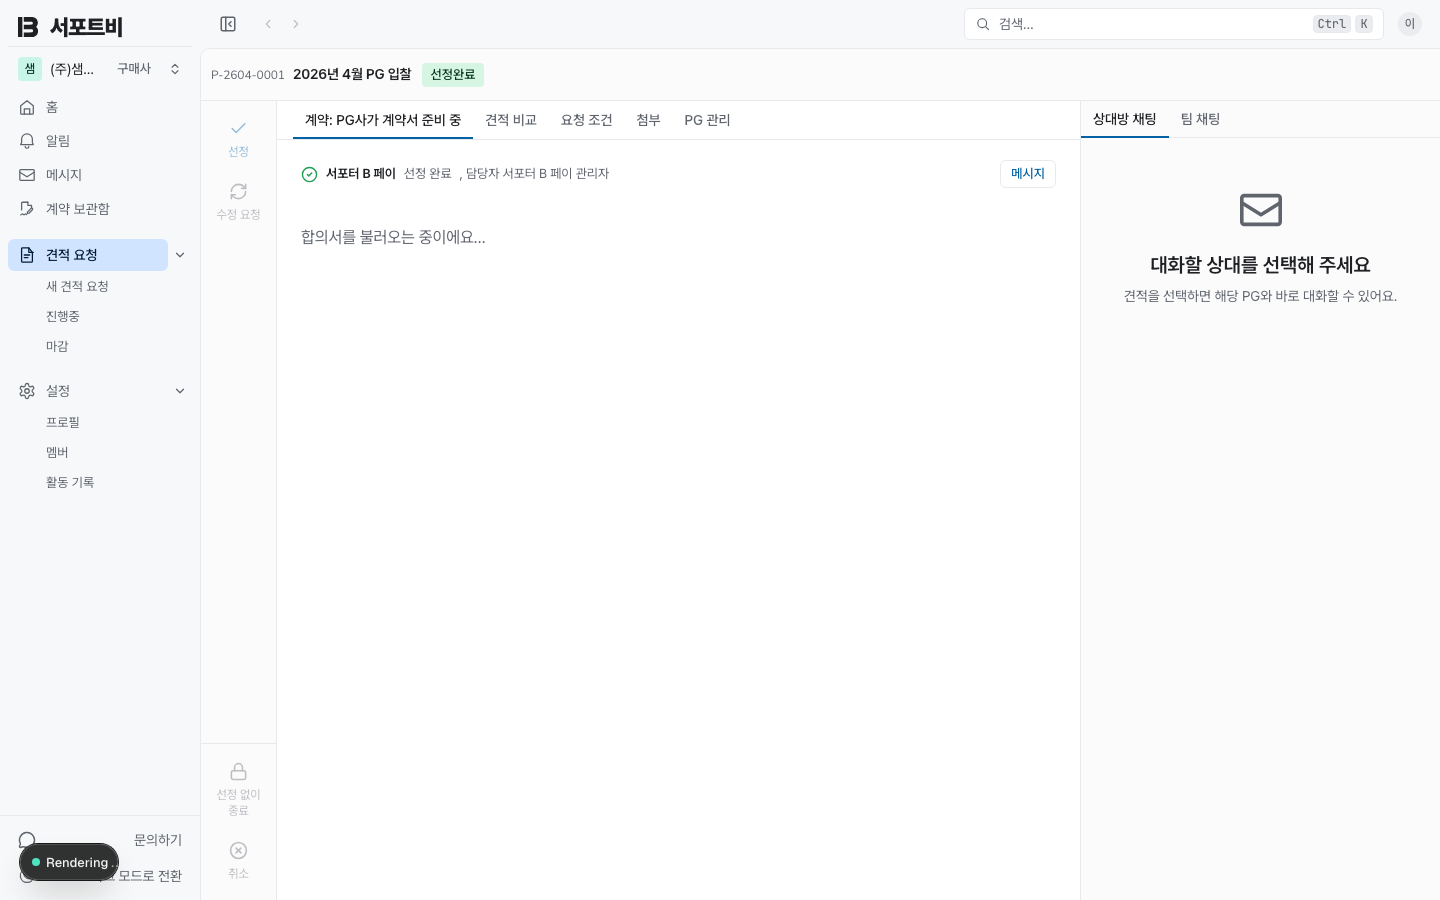
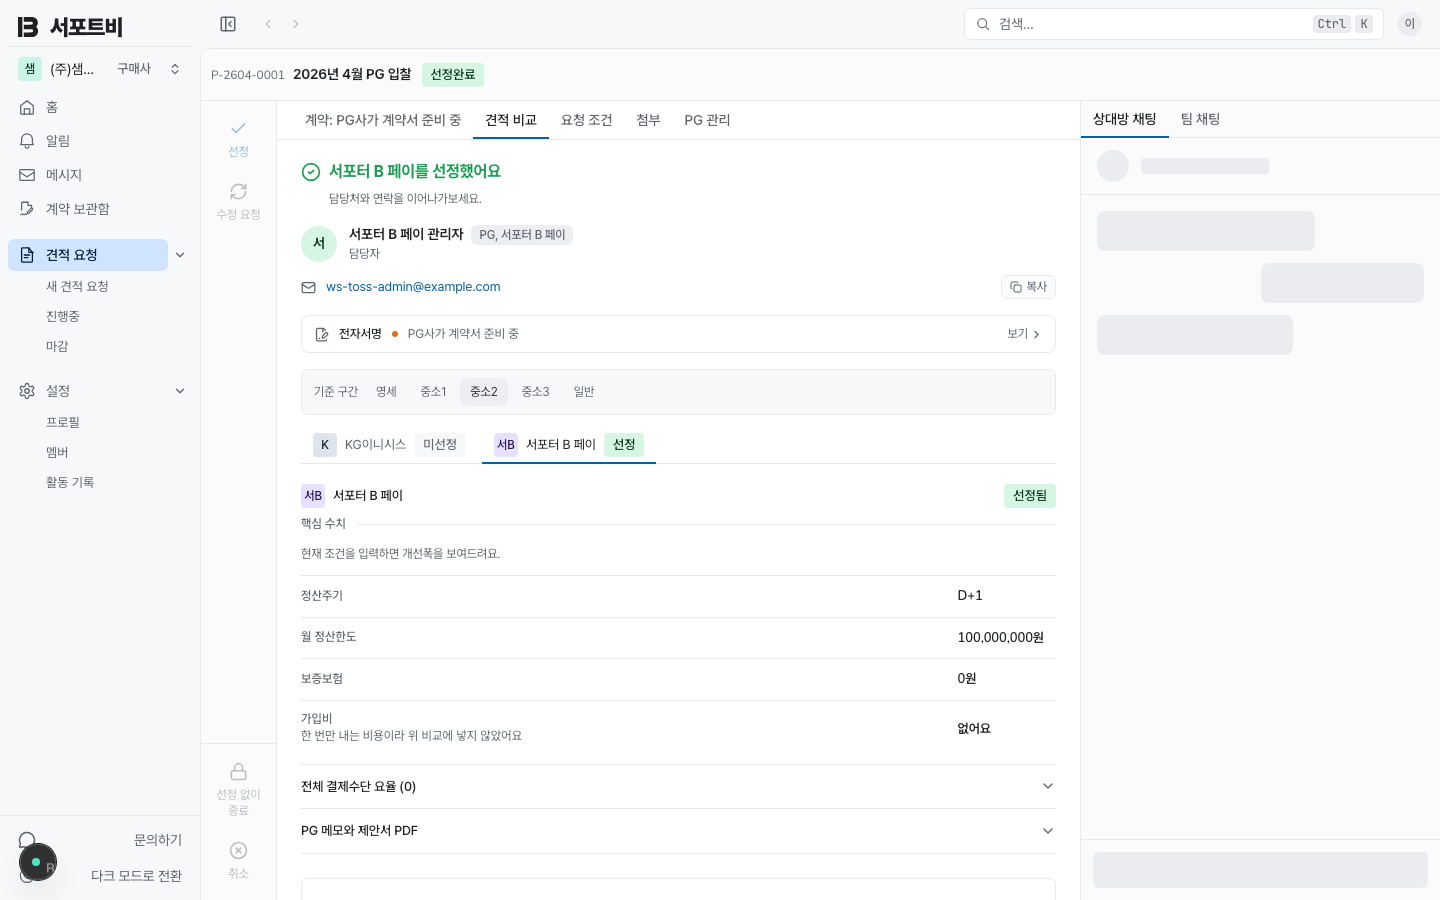
test: capture settled award revisit comparisons

diff --git a/e2e/scenario-c-buyer-award.spec.ts b/e2e/scenario-c-buyer-award.spec.ts
@@ -135,6 +135,8 @@ test.describe.serial('Scenario C — buyer awards a bid', () => {
     await expect(page.getByRole('dialog', { name: '최종 계약 조건 협의를 마쳤어요' })).toHaveCount(0);
 
     if (process.env.AWARD_EVIDENCE_DIR) {
+      await page.getByRole('tab', { name: '견적 비교', exact: true }).click();
+      await expect(page.getByText('가입비', { exact: true }).first()).toBeVisible();
       for (const [name, width, height] of [['desktop', 1440, 900], ['mobile', 390, 844]] as const) {
         await page.setViewportSize({ width, height });
         await page.screenshot({ path: `${process.env.AWARD_EVIDENCE_DIR}/after-revisit-${name}.png` });

diff --git a/docs/evidence/award-result/README.md b/docs/evidence/award-result/README.md
@@ -1,6 +1,6 @@
 # PG사 선정 완료 화면 증빙
 
-사용자가 임시 시안을 확인한 뒤 제품을 구현했다. 아래 before/after는 Playwright로 실제 앱에서 테스트 DB의 동일 구매사·견적(`P-2604-0001`)·PG(서포터 B 페이)를 사용해 촬영했다. 라이트 테마와 모션 감소 설정을 공유한다. 데스크톱은 1440×900, 모바일은 390×844다.
+사용자가 임시 시안을 확인한 뒤 제품을 구현했다. 아래 before/after는 Playwright로 실제 앱에서 테스트 DB의 동일 구매사·견적(`P-2604-0001`)·PG(서포터 B 페이)를 사용해 촬영했다. 라이트 테마와 모션 감소 설정을 공유한다. 데스크톱은 1440×900, 모바일은 390×844다. 재방문 비교는 양쪽 모두 내용이 준비된 ‘견적 비교’ 탭에서 촬영했다.
 
 - Before: 작업 시작 기준 `896d6b585`의 실제 앱. 선정 직후와 새로 방문한 상세를 각각 촬영했다.
 - After: 최신 `dev`의 노온 합의서 변경을 병합한 `ecc8cba02`의 실제 앱. 재방문의 계약 탭 변경에는 이 선행 변경도 포함된다.
